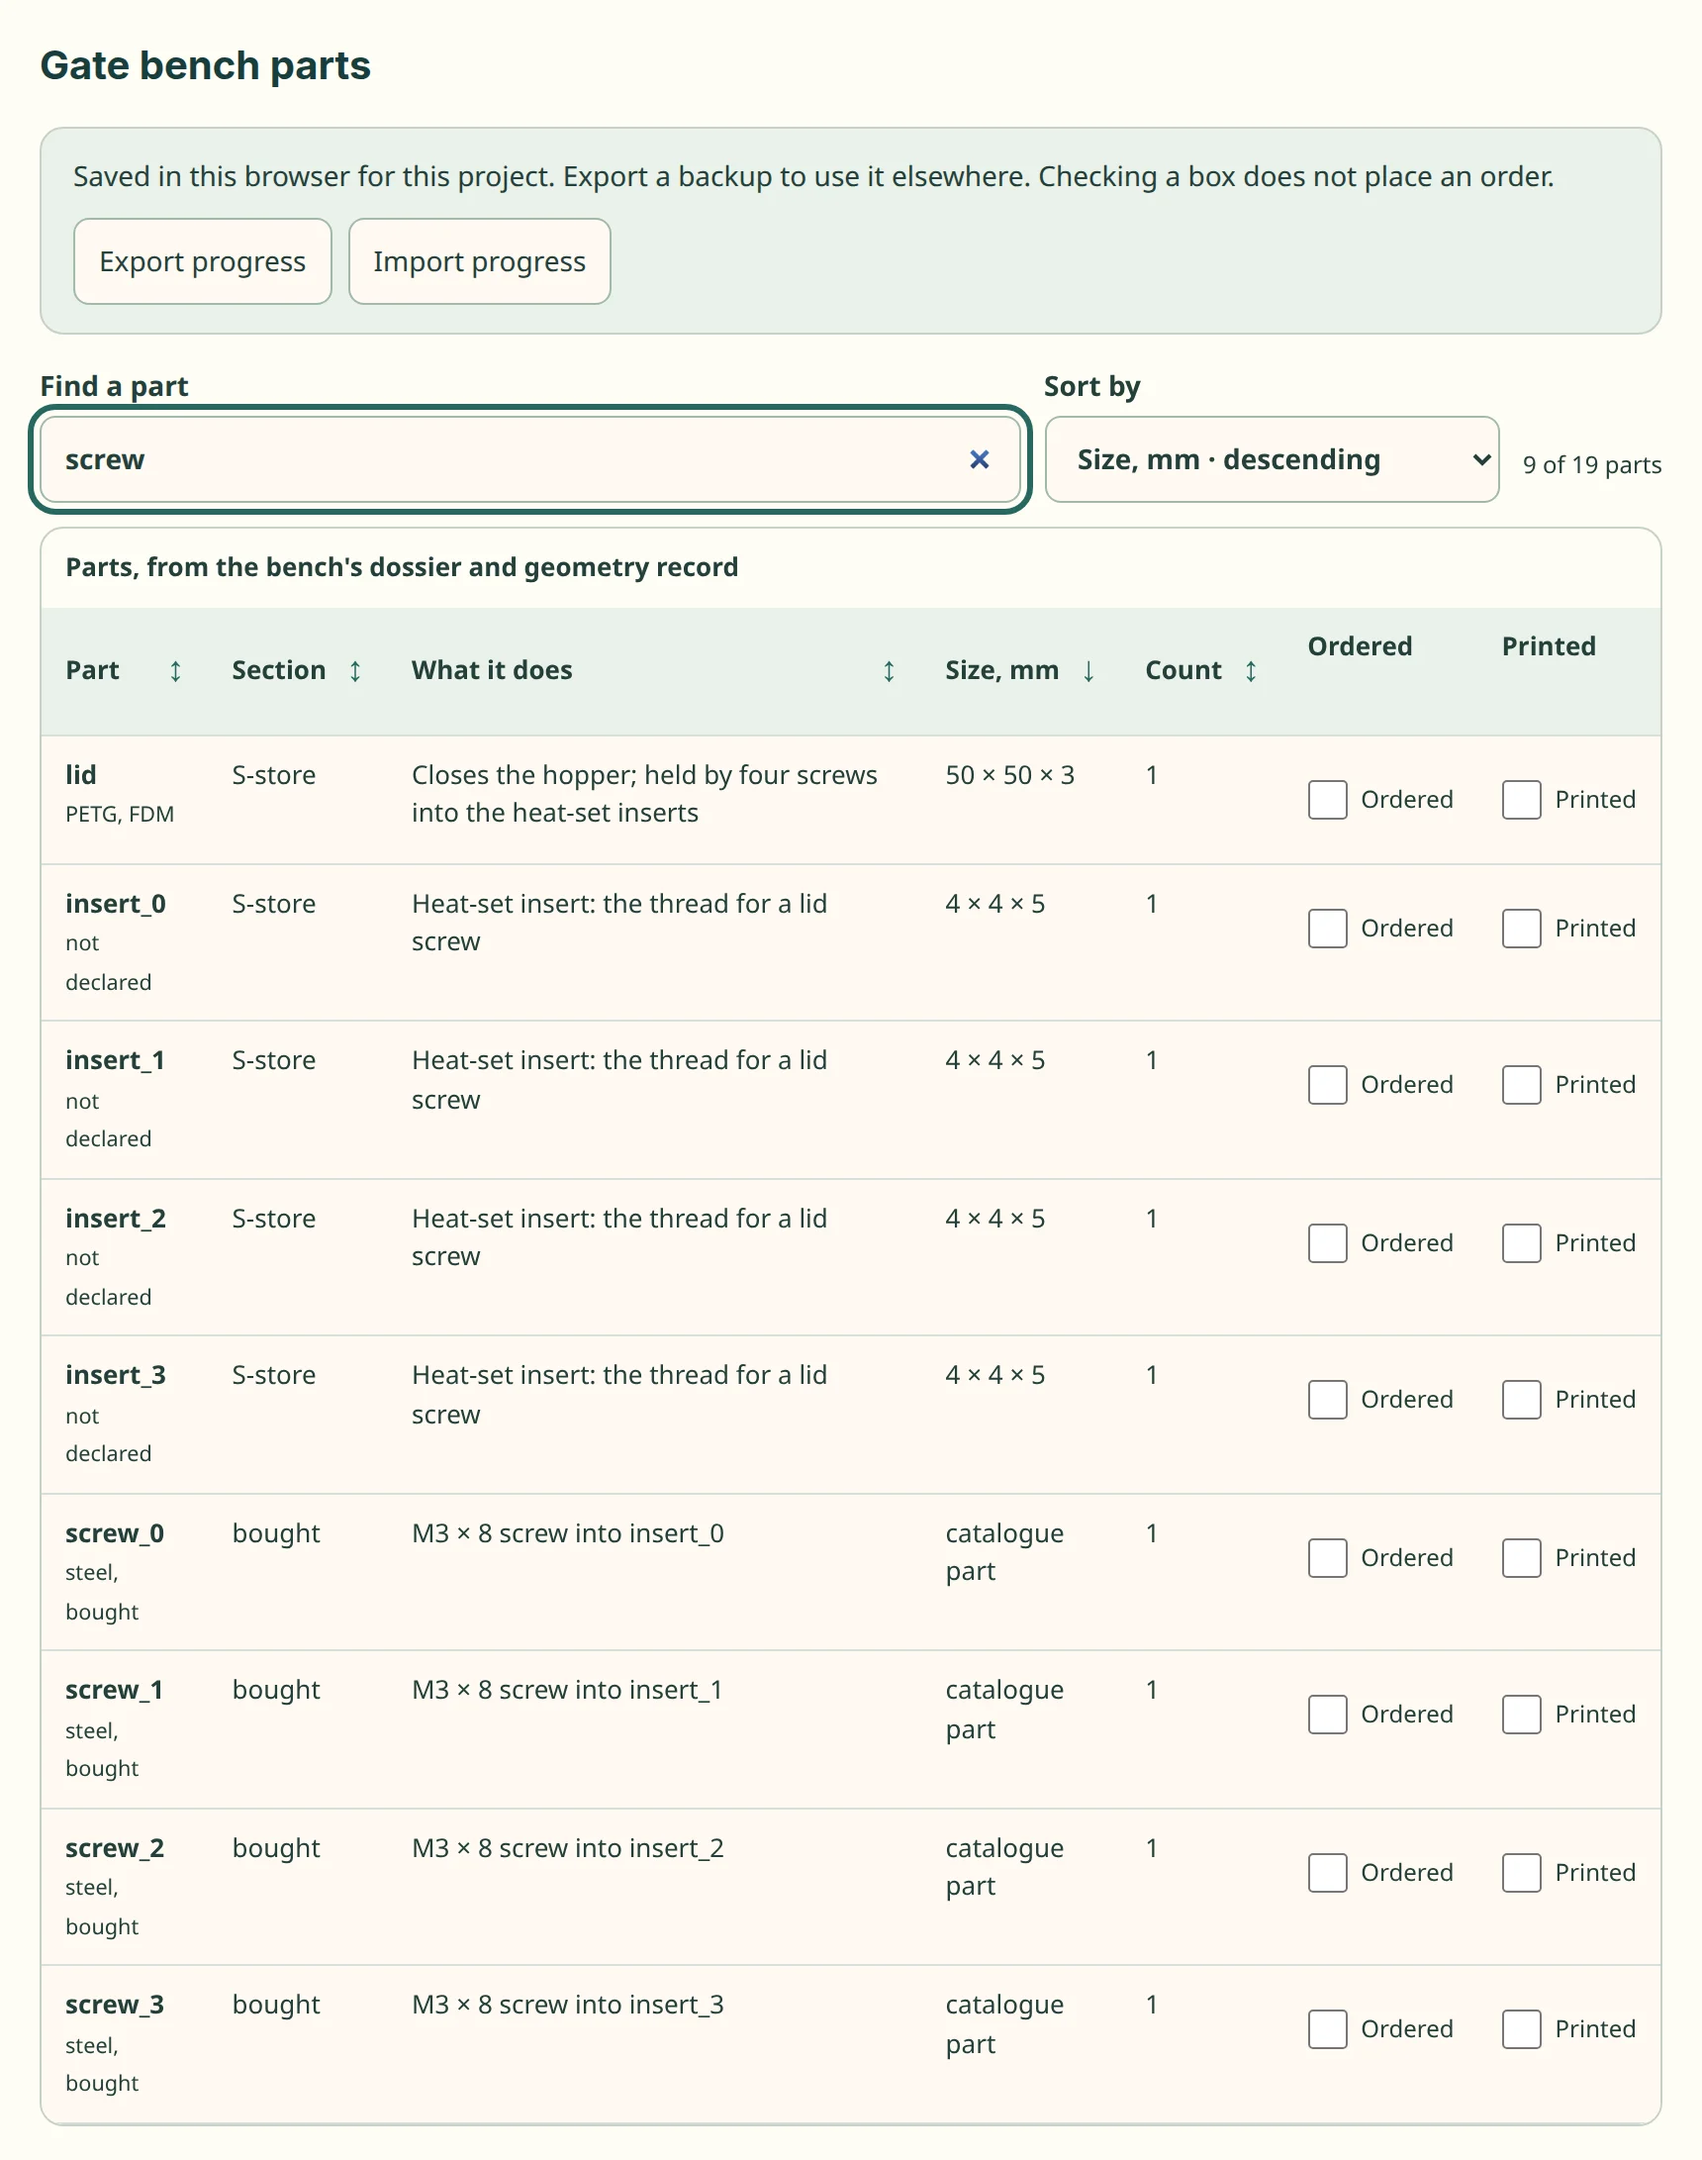
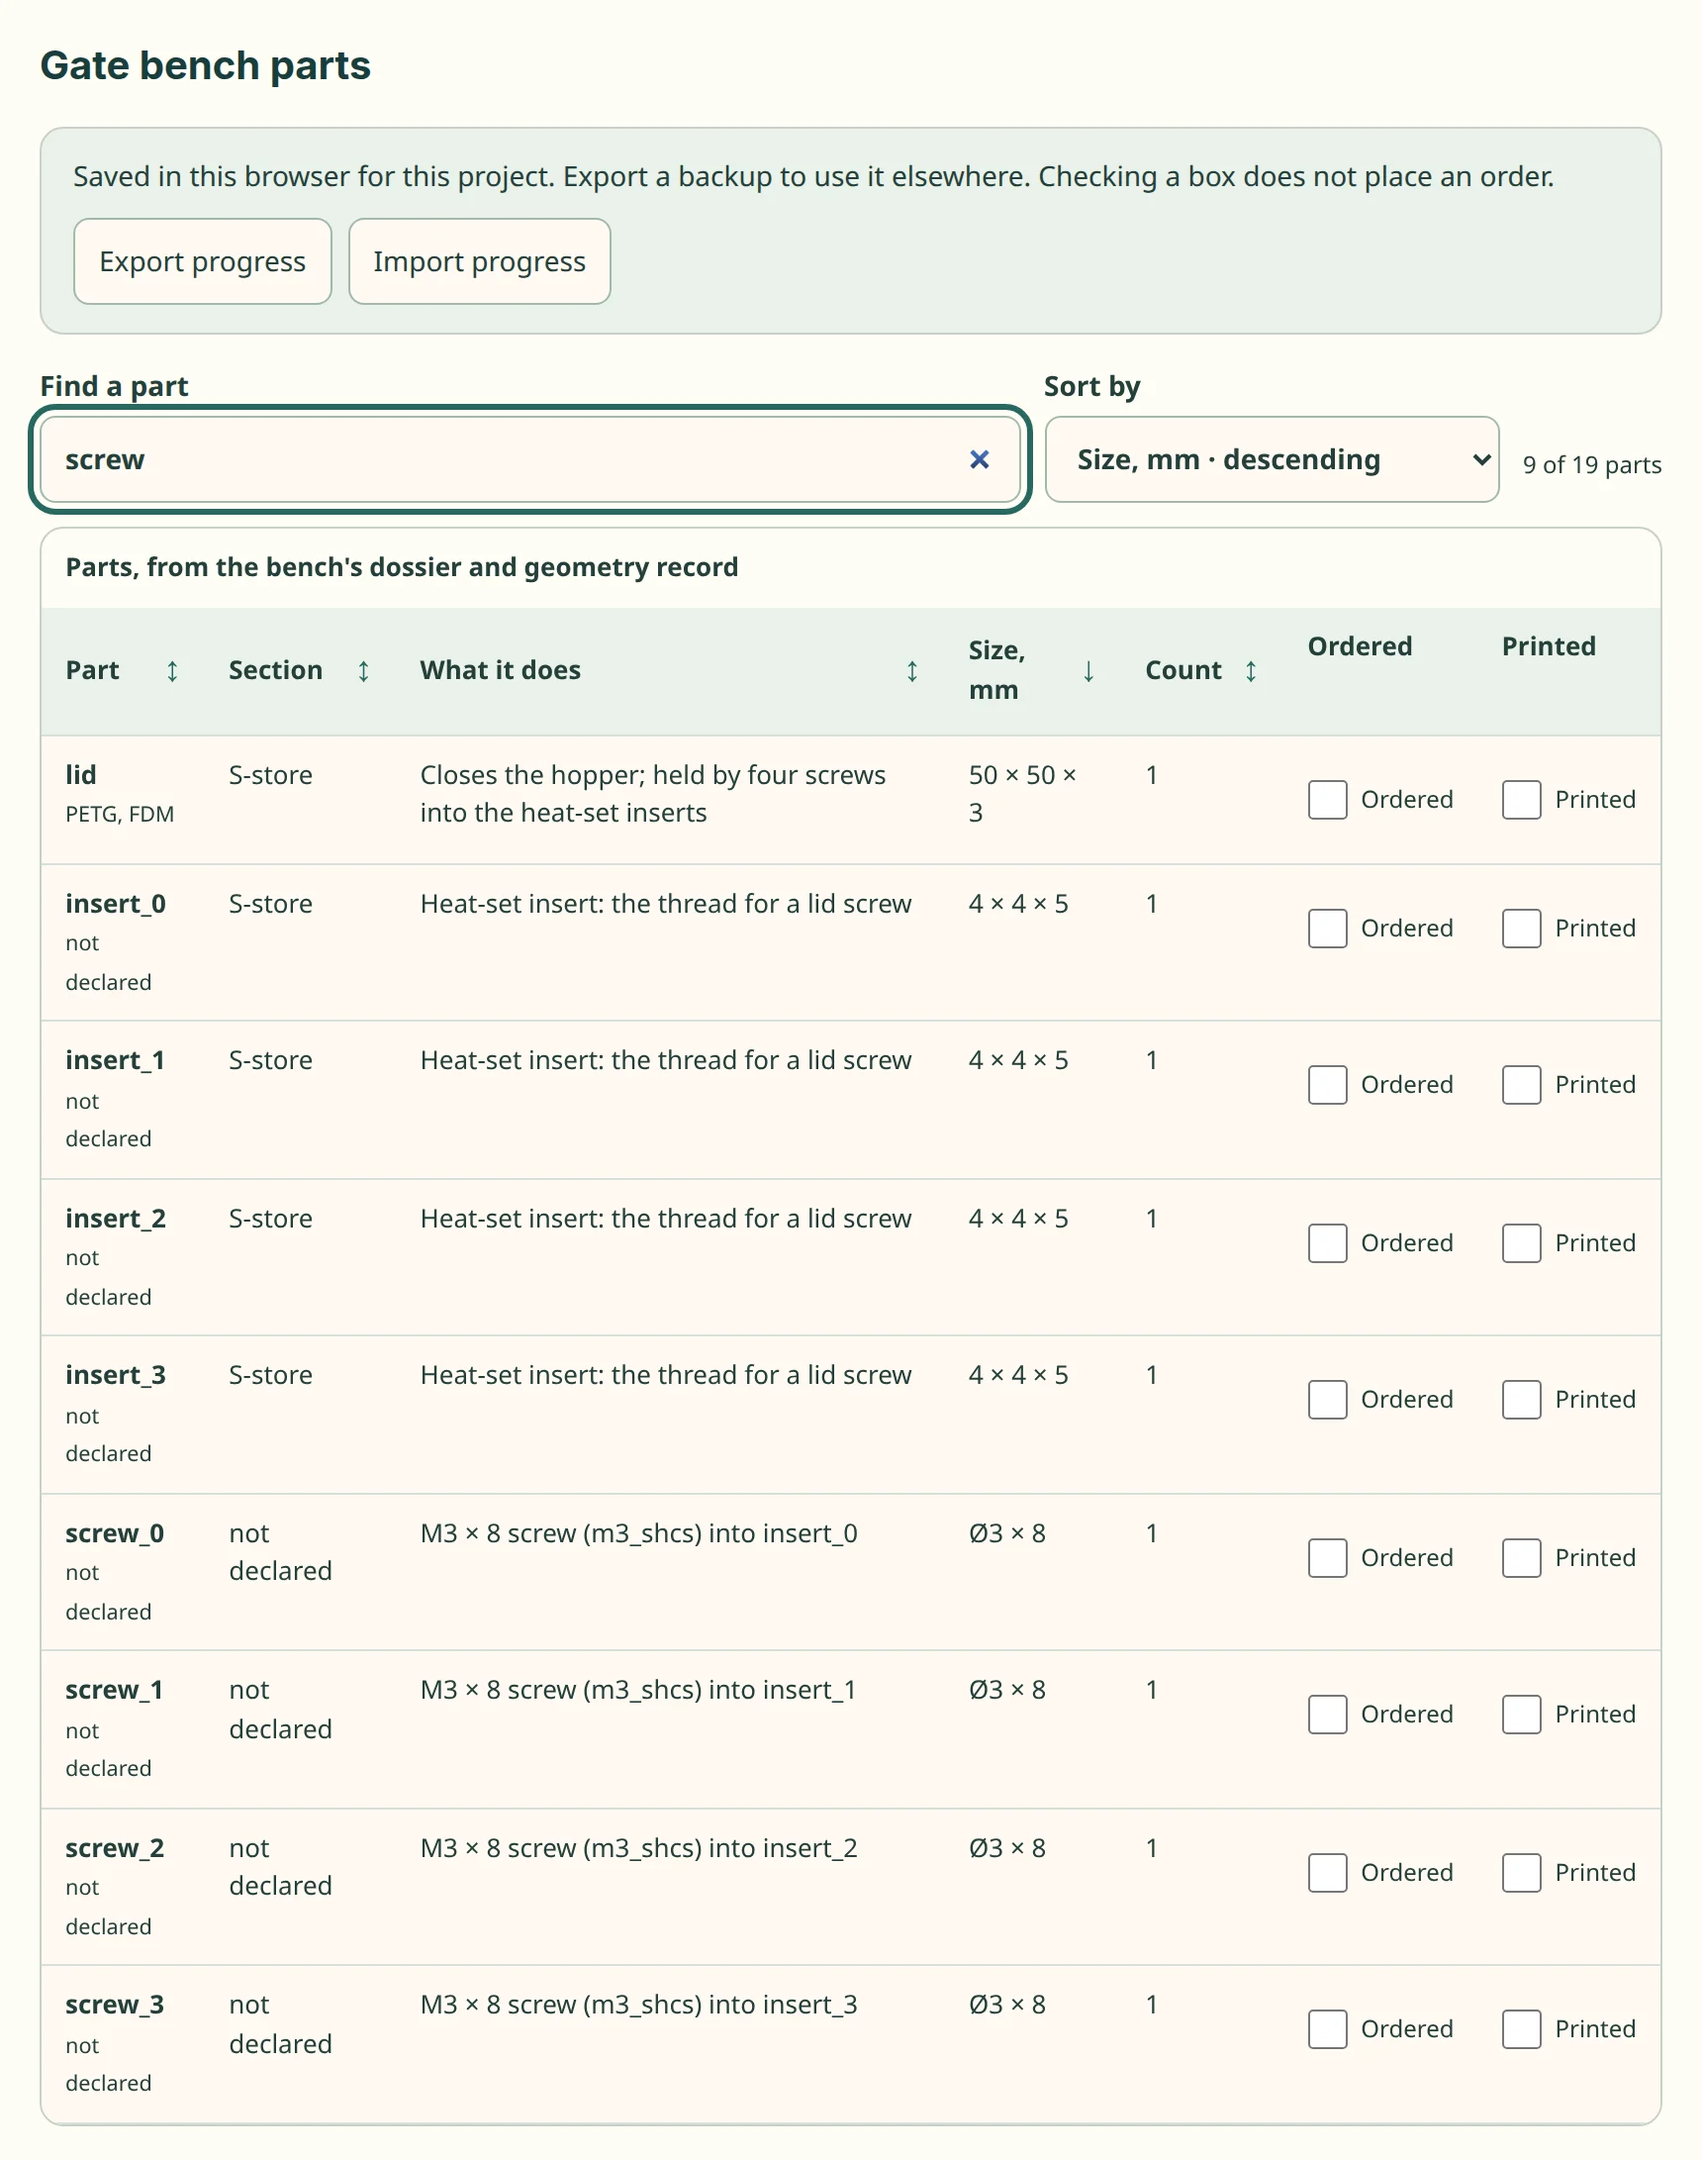
site: review of #217: honest part-table cells, the plan hero's tense, tighter pages.yaml checks
- tools/site-kit-pictures.mjs: the screws' section, material and size come
  from the bench's geometry record or say "not declared"; the script no
  longer fills them in ("steel, bought", "catalogue part"). Captions say 19
  rows for 26 parts. Pictures regenerated.
- docs/pages.yaml: the plan's hero says it was built after the plan's
  status line; the review-site lesson says each kind of part is one row.
- tools/site-pages.mjs: the band and cards go right under the title when
  the lead ends with ":", as figures do; a present hero, band or figures
  key must hold something (a figures mapping no longer dies in a bare
  TypeError); below: must have words; drawn_by is a tools/ script; a tile
  links a heading, and one on another page is checked once every page is
  built (placeVisuals.checkLinks). Tested.
- tools/site-bench-pictures.mjs: the crop hides what comes before it too,
  so the part card no longer shows its neighbour's edge.
- The fold comment and changelog say Chrome's find-in-page opens a fold;
  other browsers may not.

diff --git a/changelog.d/179-visual-doc-template.md b/changelog.d/179-visual-doc-template.md
@@ -1,11 +1,11 @@
 **New**
 - Site doc pages open with a picture band: a hero figure and, where a page has them, input → tool → output tiles, then cards for the sections that have pictures. `docs/pages.yaml` places them and figures inside sections, on the site only; the Markdown twins and `llms.txt` are unchanged (#179).
 - Every placed picture says what it is, above its caption: "Real output of `<tool>`" or "Diagram of `<tool>`, drawn by `<script>`", and what it was computed on (Gyropup, a test fixture, a worked example, published sources). A figure opens its full-size image; a tile links to the section that explains it (#179).
-- The build refuses a `docs/pages.yaml` entry with an unknown or misspelled key, an entry that places nothing, a picture that is not committed under `docs/img/`, a tool that is not a `cad-agent` command, a `cadagent` module, a web kit file or a script under `tools/`, a diagram without the script that drew it, and a tile or `below:` target that is not on the page (#179).
+- The build refuses a `docs/pages.yaml` entry with an unknown or misspelled key, an entry that places nothing, a picture that is not committed under `docs/img/`, a tool that is not a `cad-agent` command, a `cadagent` module, a web kit file or a script under `tools/`, a diagram without the `tools/` script that drew it, and a tile link or `below:` target that is not there (#179).
 - `tools/site-bench-pictures.mjs` captures the review site that `cad-agent site` builds for the gate bench, cropped to whole lines. `tools/site-kit-pictures.mjs` captures the web kit at work: the part table and tracker on the gate bench's parts, and the file viewer on a Gyropup STEP file in its default, front, themed and broken-file states (#179).
 
 **Changed**
-- On the site, a table of more than 12 rows or a code block of more than 24 lines folds into a `<details>` that says what is inside. Find-in-page still finds folded text (#179).
+- On the site, a table of more than 12 rows or a code block of more than 24 lines folds into a `<details>` that says what is inside. Chrome's find-in-page opens a fold that has a match, and the Markdown twin keeps it all open (#179).
 - The pictures of the hinge sweep say they show the gate bench with a seeded fault (`flap_hits_frame`, its arm's range raised to 60 degrees). As built, the arm sweeps 0 to 40 degrees with 1.60 mm clearance (#179, #184 review).
 - The "Hinge sweep" and "Module insertion" demos link to their sections in `docs/catalog.yaml` (#179).
 - The site preloads its mono font, so the home page no longer shifts at 360 px when the font arrives (#179).
